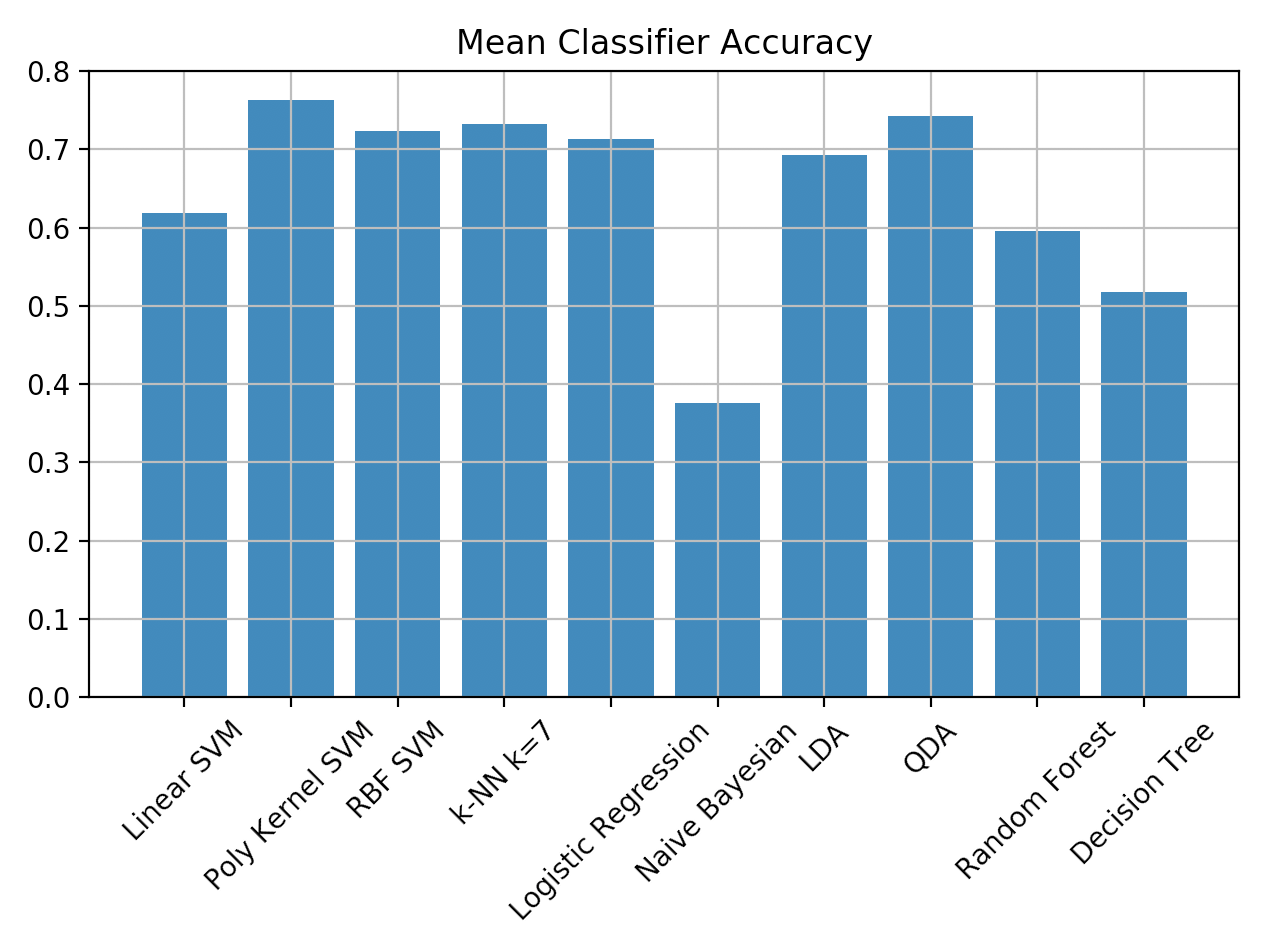
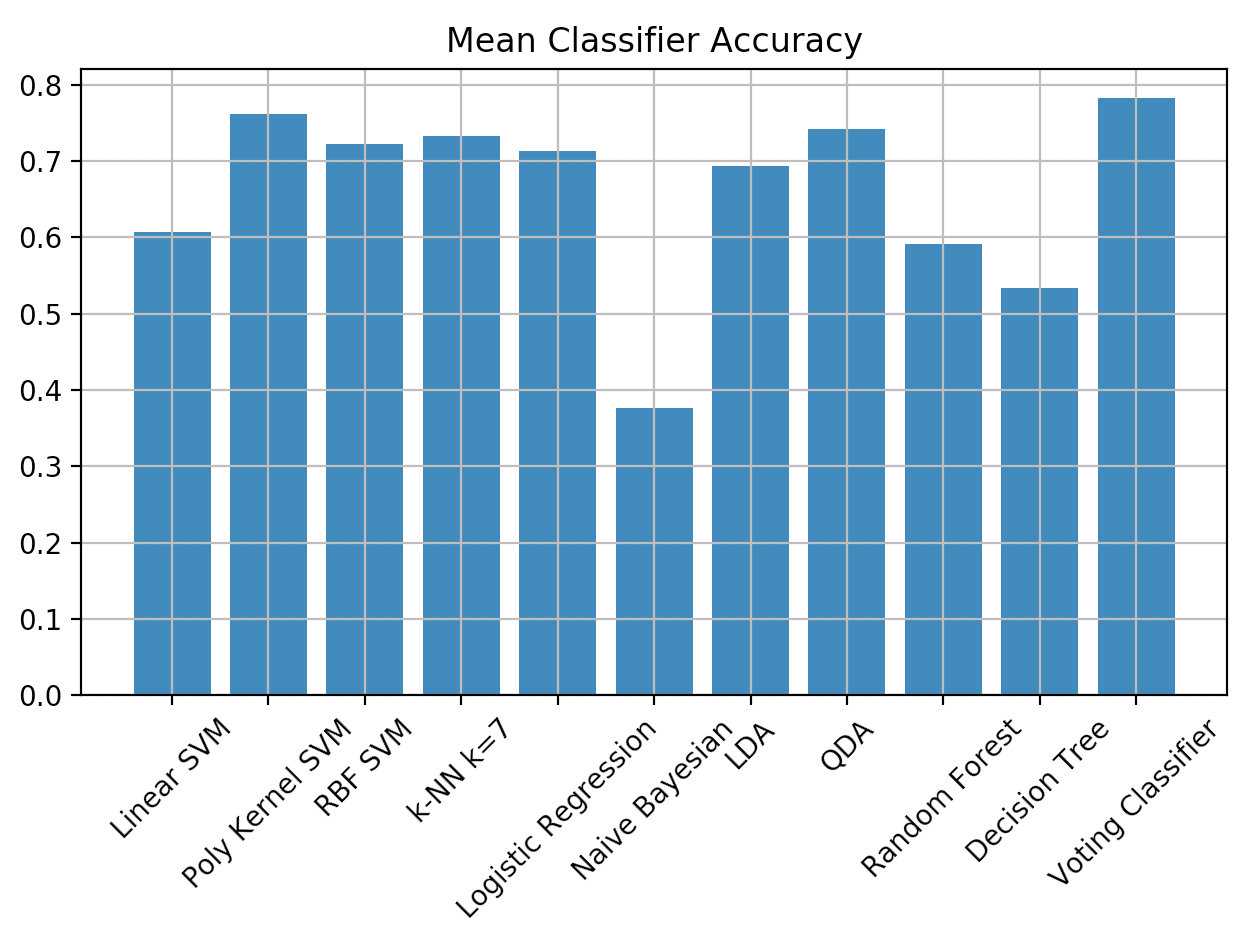
another commito

diff --git a/README.md b/README.md
@@ -89,7 +89,7 @@ This is the structure of the neural network implemented in TensorFlow. We use th
 
 ## Results
 
-The best performing classifier is the Poly Kernel SVM. The worst performing is Naive Bayes.
+The best performing classifier the ensemble (majority) voting classifier. For this, we use the SVM Poly, k-NN, and QDA as the estimators. The worst performing is Naive Bayes.
 
 <img src="images/accuracy.png" width="600">
 
@@ -103,7 +103,7 @@ The best performing classifier is the Poly Kernel SVM. The worst performing is N
 |               Naive Bayesian               |      0.38     |      0.31      |     0.36    |
 |                     LDA                    |      0.69     |      0.69      |     0.7     |
 |                     QDA                    |      0.74     |      0.74      |     0.74    |
-|                Random Forest               |      0.59     |      0.59      |     0.60    |
+|          Random Forest (N=6, d=10)         |      0.59     |      0.59      |     0.60    |
 |                Decision Tree               |      0.53     |      0.52      |     0.52    |
 |             NN (Adam Optimizer)            |      0.62     |      0.63      |     0.62    |
 
